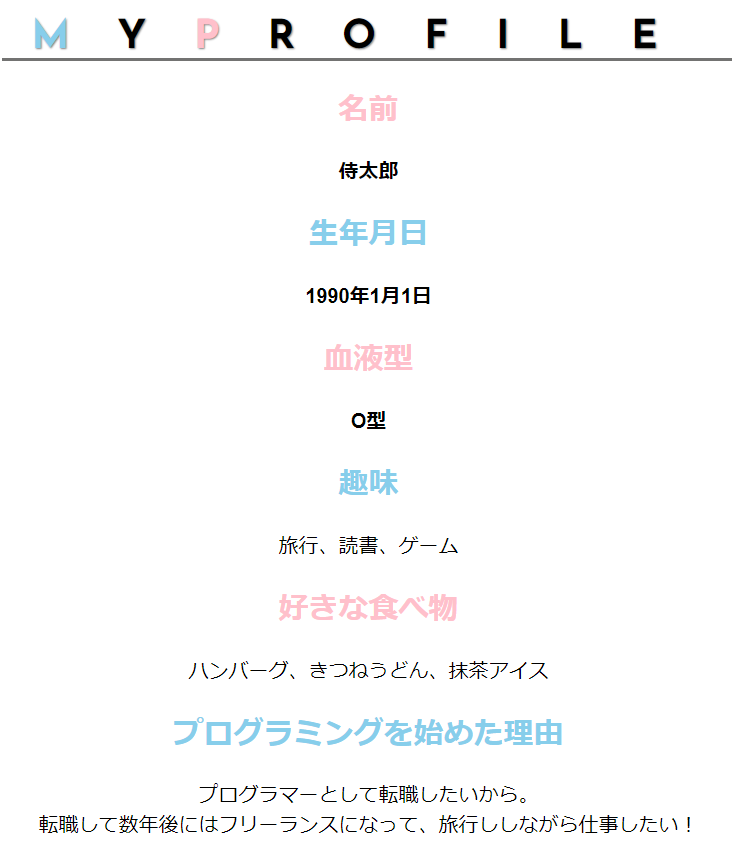
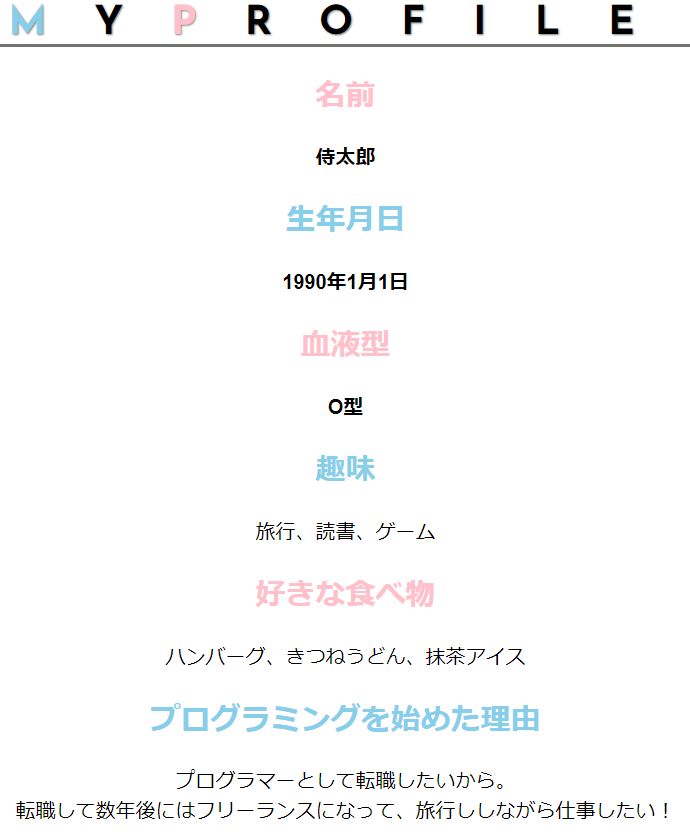
Add files via upload

diff --git a/kadai_014/kadai_014.html b/kadai_014/kadai_014.html
@@ -11,7 +11,7 @@
   </head>
   <body>
     <div class="parent">
-      <h1 id="one"><span class="text-blue">M</span>Y<span class="text-pink">P</span>ROFILE</h1>
+      <h1><span class="text-blue">M</span>Y<span class="text-pink">P</span>ROFILE</h1>
       <div id="child">
         <h2 class="text-pink">名前</h2>
         <p>侍太郎</p>

diff --git a/kadai_014/style.css b/kadai_014/style.css
@@ -7,10 +7,10 @@ html {
   text-align: center;
 }
 
-#one {
+h1 {
   font-family: "Josefin Sans", sans-serif;
   font-size: 2rem;
-  letter-spacing: 2.4rem;
+  letter-spacing: 1.2em;
   text-shadow: 1px 1px 2px gray;
   border-bottom: 3px solid rgb(115, 115, 114);
 }
